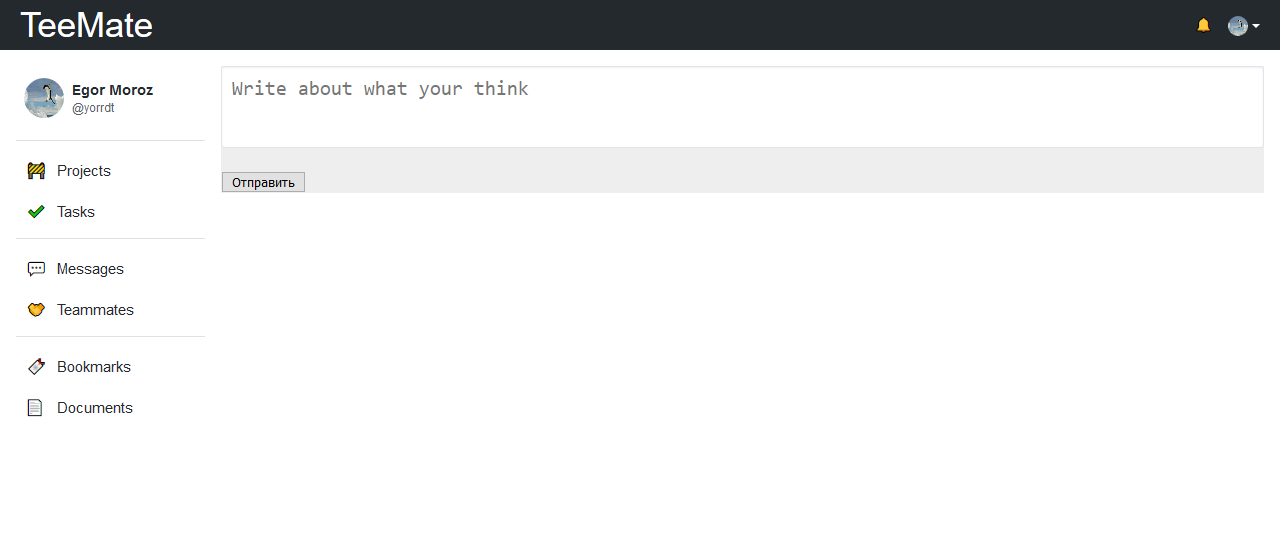
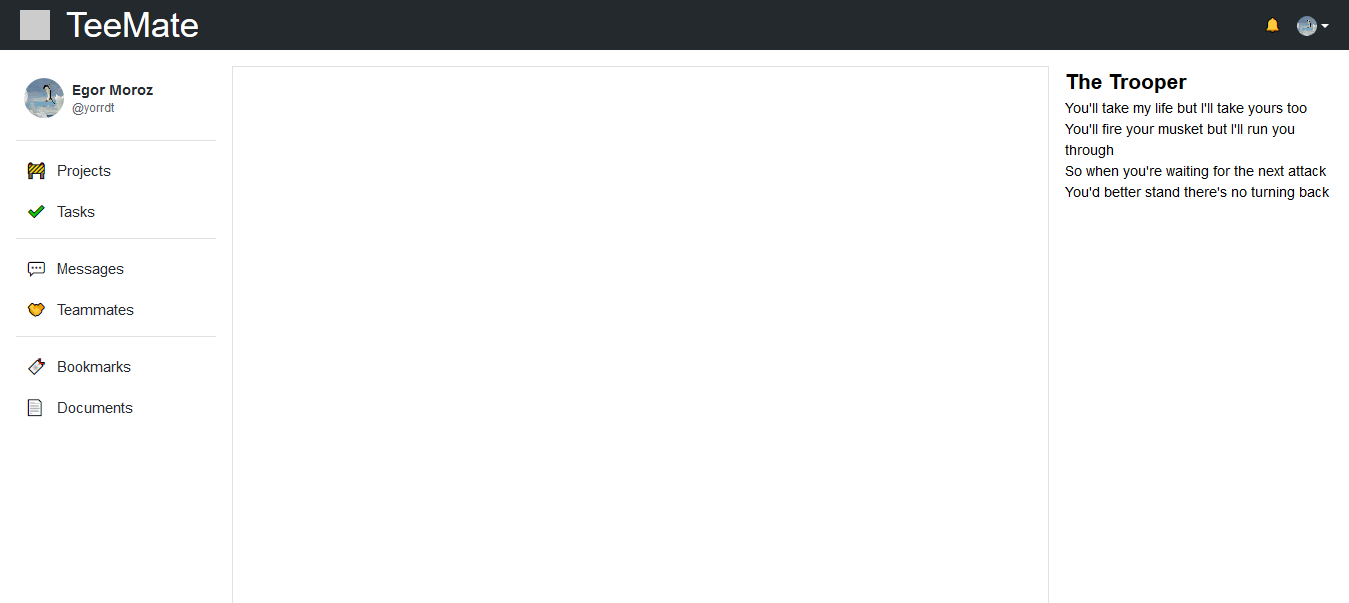
!burger, aside, more adaptive, new illustrations

diff --git a/style/main-style.css b/style/main-style.css
@@ -19,8 +19,21 @@ body {
 
 /* --------------------------------------------------------------- */
 
+@media (max-width: 1170px) {
+	.aside-container {
+		display: none !important;
+	}
+	
+	.content-container {
+		width: 80% !important;
+	}
+	
+	.navbar-container {
+		width: 20% !important;
+	}
+}
 
-@media (max-width: 1000px) {
+@media (max-width: 950px) {
 	.navbar-container  .user-names, .menu-item > span {
 		display: none !important;
 	}
@@ -110,6 +123,13 @@ body {
 }
 
 /* --------------------------------------------------------------- */
+
+.burger {
+	width: 30px;
+	height: 30px;
+	background-color: #ccc;
+	cursor: pointer;
+}
 
 .header-title {
 	text-decoration: none;
@@ -453,28 +473,20 @@ hr::after, hr::before {
 /* --------------------------------------------------------------- */
 
 .content-container {
-	width: 84%;
+	width: 64%;
+	padding-left: 16px;
+	padding-right: 16px;
+	padding-top: 16px;
 }
 
 .content {
-	padding-top: 16px;
-	padding-left: 16px;
-	padding-right: 16px;
-	min-width: 0;
-}
-
-.back {
-	background-color: #eee;
-	border: 1px solid #000;
 	height: 700px;
+	border: 1px solid #dfe2e5;
 }
 
 .textarea {
 	padding: 10px 10px;
 	margin-bottom: 20px;
-	
-	font-family: Consolas, Arial, Helvetica, sans-serif;  
-	font-size: 15pt;
 	
 	width: calc(100% - 22px);
 	resize: none;
@@ -488,6 +500,12 @@ hr::after, hr::before {
 }
 
 /* --------------------------------------------------------------- */
+
+.aside-container {
+	width: 20$;
+	padding-top: 16px;
+	padding-right: 16px;
+}
 
 
 

diff --git a/index.html b/index.html
@@ -10,6 +10,9 @@
 		<div class="header-wrapper">
 			<header class="header-container">
 				<div class="header-item">
+					<div class="burger"></div>
+				</div>
+				<div class="header-item">
 					<a class="header-title" href="index.html">TeeMate</a>
 				</div>
 				<div class="header-item center-item"></div>
@@ -104,16 +107,23 @@
 					</div>
 					<div class="content-container">
 						<div class="content">
-							<div class="back">
-								<!-- <form action="#" method="post">
-									<div class="user-text">
-										<textarea class="textarea" name="text" placeholder="Write about what your think"></textarea>
-										<input class="submit_button" type="submit" value="Отправить"/>
-									</div>
-								</form> -->
-							</div>
+							<!-- <form action="#" method="post">
+								<div class="user-text">
+									<textarea class="textarea" name="text" placeholder="Write about what your think"></textarea>
+									<input class="submit_button" type="submit" value="Send"/>
+								</div>
+							</form> -->
 						</div>
 					</div>
+					<aside class="aside-container">
+						<div class="aside">
+							<h1>The Trooper</h1>
+							<p>You'll take my life but I'll take yours too</p>
+							<p>You'll fire your musket but I'll run you through</p>
+							<p>So when you're waiting for the next attack</p>
+							<p>You'd better stand there's no turning back</p>
+						</div>
+					</aside>
 				</div>
 			</main>
 		</div>
